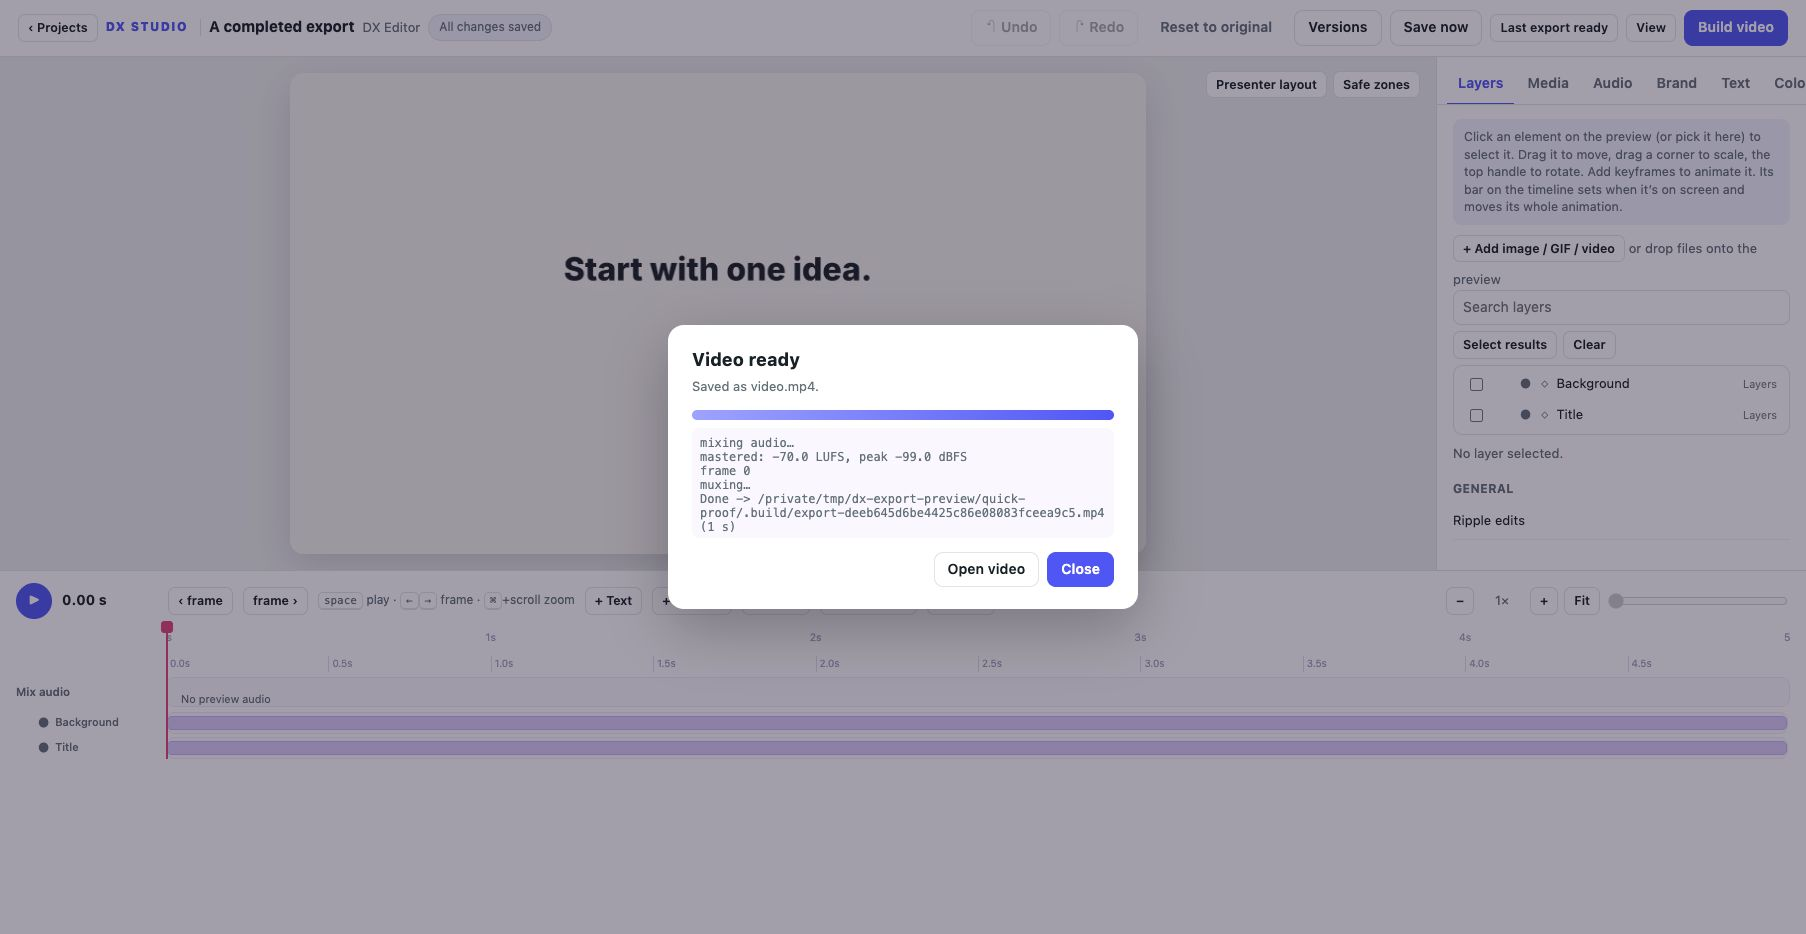
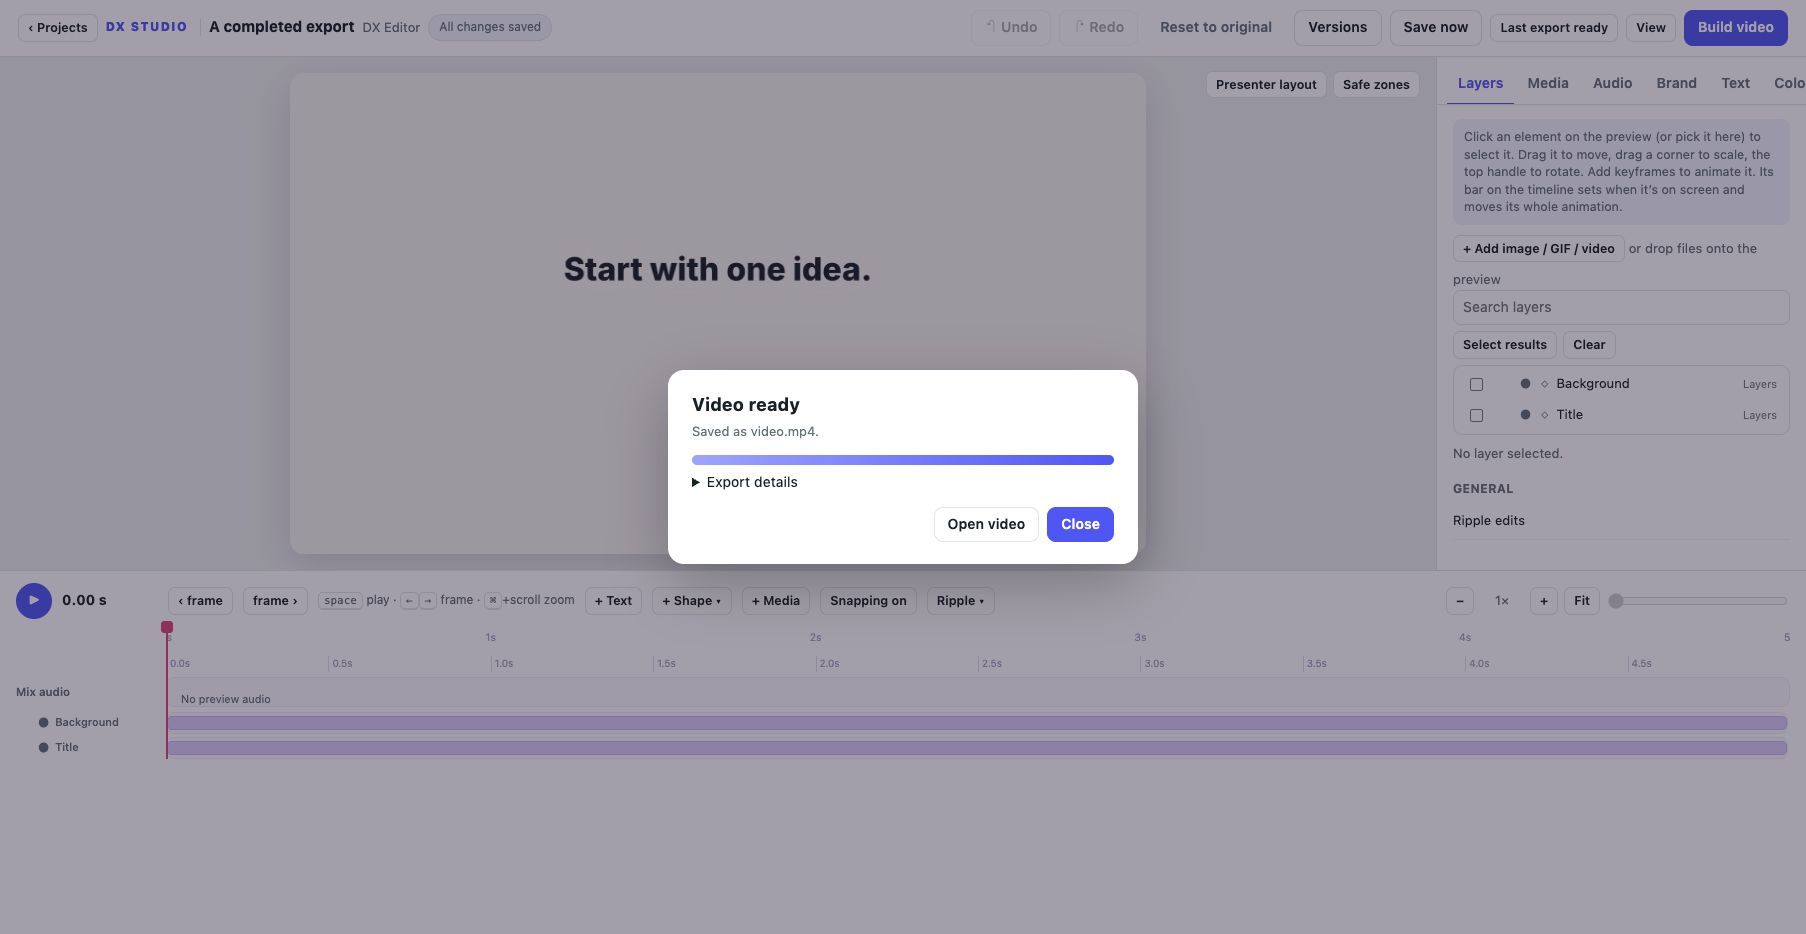
Preserve AI-to-editor handoffs and no-narration exports (#9)
* Add project home and bulk layer editing tools

* Add media library, relinking and export file checks

* Add preview waveform and listening workspace

* Add caption interchange and phrase revision tools

* Keep shortened export fixtures within caption bounds

* Add reusable palettes and brand style presets

* Add adjustable workspace layouts and preview quality

* Add cancellable exports and preserve completed videos

* Improve assistant handoffs and identify development builds

* Keep no-narration exports compatible with isolated build jobs

---------

Changed region(s): [[0.3721, 0.3415, 0.6512, 0.652]]

diff --git a/scripts/novoice.py b/scripts/novoice.py
@@ -1,37 +1,59 @@
-"""Render a music + sound-effects-only version of a built project (same master chain, voice muted).
+"""Make a separate no-narration MP4 from a freshly completed project export.
 
-    python3 scripts/novoice.py <project> <out.mp4>
+    python scripts/novoice.py <project> <out.mp4> [--mute-footage]
 
-Run from the work folder that contains dx_studio/, after `python3 -m dx_studio build <project>`
-(it reuses .build/video.mp4 and the build's mix). Deliver it next to the master so the user can record their own voice.
+Run immediately after building the same saved settings. Footage audio stays unless
+--mute-footage is selected. No shared export intermediates are required.
 """
-import os, subprocess, sys
-sys.path.insert(0, os.getcwd())
-from dx_studio import cli, audio
+import argparse
+import os
+from pathlib import Path
+import subprocess
+import sys
+import tempfile
+sys.path.insert(0,str(Path(__file__).resolve().parents[1]))
+from dx_studio import cli,audio
+
+
+def make_novoice(project,out,mute_footage=False):
+    pr=cli._project(project);source=Path(pr.output).resolve();destination=Path(out).resolve()
+    if not source.is_file():raise ValueError('Build the project first, using the same saved settings.')
+    if destination==source:raise ValueError('Use a separate output path so the voiced master is kept.')
+    sources={Path(pr.media.path(item)).resolve() for item in pr.values.get('__media',[]) if item.get('file')}
+    if destination in sources:raise ValueError('Do not overwrite a source asset with the no-narration export.')
+    if destination.suffix.lower()!='.mp4':raise ValueError('Export to an .mp4 file')
+    destination.parent.mkdir(parents=True,exist_ok=True)
+    mx=pr.cfg.get('mix',{});target,peak=mx.get('loudness',-14.0),mx.get('peak',-1.2)
+    with tempfile.TemporaryDirectory(prefix='.dx-novoice-',dir=destination.parent) as work:
+        work=Path(work)
+        def chain(raw,dst,gain,limit):
+            subprocess.run(['ffmpeg','-hide_banner','-loglevel','error','-y','-i',str(raw),'-af',
+                            f'acompressor=threshold=-24dB:ratio=3:attack=6:release=120:makeup=4dB,volume={gain:.2f}dB,'
+                            f'alimiter=limit={10**(limit/20):.4f}:attack=2:release=60:level=false',
+                            '-ar',str(audio.SR),'-c:a','pcm_s24le',str(dst)],check=True)
+            return audio._lufs(dst)
+        full=audio.build_mix(pr,str(work/'full.wav'));gain,limit=8.5,peak-.55
+        for _ in range(6):
+            loudness,actual_peak=chain(full,work/'full-master.wav',gain,limit)
+            if abs(loudness-target)<.25 and actual_peak<=peak+.05:break
+            if actual_peak>peak+.05:limit-=(actual_peak-peak)+.1
+            if abs(loudness-target)>=.25:gain+=(target-loudness)*1.05
+        for line in pr.cfg.get('voice',[]):line['gain']=0.0
+        if mute_footage:
+            for item in pr.values.get('__media',[]):
+                if item.get('kind')=='video':item['muted']=True
+        raw=audio.build_mix(pr,str(work/'no-narration.wav'));master=work/'master.wav';chain(raw,master,gain,limit)
+        complete=work/'complete.mp4'
+        subprocess.run(['ffmpeg','-hide_banner','-loglevel','error','-y','-i',str(source),'-i',str(master),
+                        '-map','0:v:0','-map','1:a:0','-c:v','copy','-c:a','aac','-b:a','256k','-ar','48000',
+                        '-t',str(pr.duration),'-movflags','+faststart',str(complete)],check=True)
+        os.replace(complete,destination)
+    print('wrote',destination)
+
 
 def main():
-    if len(sys.argv) < 3: sys.exit(__doc__)
-    pr = cli._project(sys.argv[1]); out = sys.argv[2]; b = os.path.join(pr.path, '.build'); SR = audio.SR
-    if not os.path.exists(os.path.join(b, 'video.mp4')): sys.exit('build the project first (python3 -m dx_studio build <project>)')
-    mx = pr.cfg.get('mix', {}); target, peak = mx.get('loudness', -14.0), mx.get('peak', -1.2)
-    def chain(raw, dst, gain, lim_db):
-        subprocess.run(['ffmpeg', '-hide_banner', '-loglevel', 'error', '-y', '-i', raw, '-af',
-                        f'acompressor=threshold=-24dB:ratio=3:attack=6:release=120:makeup=4dB,volume={gain:.2f}dB,'
-                        f'alimiter=limit={10**(lim_db/20):.4f}:attack=2:release=60:level=false', '-ar', str(SR), '-c:a', 'pcm_s24le', dst], check=True)
-        return audio._lufs(dst)
-    # find the gain the full mix needed, then apply the same chain to the voiceless mix (music/sfx keep their level)
-    tmp = os.path.join(b, 'tmp_full.wav'); gain, lim = 8.5, peak - 0.55
-    for _ in range(6):
-        i, pk = chain(os.path.join(b, 'mix_raw.wav'), tmp, gain, lim)
-        if abs(i - target) < 0.25 and pk <= peak + 0.05: break
-        if pk > peak + 0.05: lim -= (pk - peak) + 0.1
-        if abs(i - target) >= 0.25: gain += (target - i)*1.05
-    for line in pr.cfg.get('voice', []): line['gain'] = 0.0
-    nv_raw = os.path.join(b, 'mix_novoice_raw.wav'); audio.build_mix(pr, nv_raw)
-    nv = os.path.join(b, 'master_novoice.wav'); chain(nv_raw, nv, gain, lim)
-    subprocess.run(['ffmpeg', '-hide_banner', '-loglevel', 'error', '-y', '-i', os.path.join(b, 'video.mp4'), '-i', nv, '-map', '0:v', '-map', '1:a',
-                    '-c:v', 'copy', '-c:a', 'aac', '-b:a', '256k', '-ar', '48000', '-t', str(pr.duration), '-movflags', '+faststart', out], check=True)
-    os.remove(tmp); print('wrote', out)
+    parser=argparse.ArgumentParser(description=__doc__);parser.add_argument('project');parser.add_argument('output');parser.add_argument('--mute-footage',action='store_true');args=parser.parse_args()
+    try:make_novoice(args.project,args.output,args.mute_footage)
+    except (ValueError,OSError,RuntimeError,subprocess.SubprocessError) as error:parser.exit(1,f'Error: {error}\n')
 
-if __name__ == '__main__':
-    main()
+if __name__=='__main__':main()

diff --git a/scripts/package_release.py b/scripts/package_release.py
@@ -1,5 +1,6 @@
 """Create source and agent-skill zips from the public source tree only."""
 import argparse
+import ast
 import hashlib
 from pathlib import Path
 from zipfile import ZipFile, ZIP_DEFLATED
@@ -7,15 +8,18 @@ from zipfile import ZipFile, ZIP_DEFLATED
 ROOT=Path(__file__).resolve().parents[1]
 SKIP={'.git','.venv','__pycache__','.pytest_cache','.build','stills','dist','build','outputs','projects'}
 def main():
-    ap=argparse.ArgumentParser();ap.add_argument('--output',default='../release-artifacts');a=ap.parse_args()
-    out=Path(a.output).resolve()
+    tree=ast.parse((ROOT/'dx_studio/__init__.py').read_text())
+    version=next(ast.literal_eval(node.value) for node in tree.body if isinstance(node,ast.Assign) and any(isinstance(target,ast.Name) and target.id=='__version__' for target in node.targets))
+    ap=argparse.ArgumentParser();ap.add_argument('--output');a=ap.parse_args()
+    out=Path(a.output).resolve() if a.output else ROOT.parent/'release-artifacts'/version
     if out==ROOT or ROOT in out.parents:ap.error('Write release artifacts outside the repository')
     out.mkdir(parents=True,exist_ok=True)
     files=[p for p in sorted(ROOT.rglob('*')) if p.is_file() and not p.is_symlink()
            and not any(x in SKIP or x.endswith('.egg-info') for x in p.relative_to(ROOT).parts)
            and p.name!='.DS_Store' and not p.name.startswith('.env')]
-    source=out/'dx-studio-0.1.0-source.zip'
+    source=out/f'dx-studio-{version}-source.zip'
     skill=out/'dx-studio-video.zip'
+    if any(path.exists() for path in [source,skill,out/'SHA256SUMS']):ap.error('Choose an empty output directory; existing release artifacts are never overwritten')
     for archive,prefix in [(source,'dx-studio'),(skill,'dx-studio-video')]:
         with ZipFile(archive,'w',ZIP_DEFLATED) as z:
             for p in files:z.write(p,str(Path(prefix)/p.relative_to(ROOT)))

diff --git a/dx_studio/cli.py b/dx_studio/cli.py
@@ -104,7 +104,8 @@ def cmd_sounds():
 def main(argv=None):
     import argparse
     ap=argparse.ArgumentParser(prog='dx-studio', description='DX Studio: explainer videos that stay editable.')
-    ap.add_argument('--version',action='version',version='DX Studio 0.1.0')
+    from . import __version__
+    ap.add_argument('--version',action='version',version='DX Studio '+__version__)
     sub=ap.add_subparsers(dest='command',required=True)
     sub.add_parser('doctor',help='Check local dependencies')
     sub.add_parser('sounds',help='List built-in sound effects')

diff --git a/dx_studio/__init__.py b/dx_studio/__init__.py
@@ -1,6 +1,6 @@
 """DX Studio: author editable motion graphics. Public scene API loads lazily."""
 from importlib import import_module
-__version__ = "0.1.0"
+__version__ = "0.5.0.dev0"
 _EXPORTS = {
     **{k:'core' for k in ['PI','WHITE','BLACK','clamp','eo','eio','ei','lin','P','lerp','mixc','window','back_ease','hexc','hex_of']},
     **{k:'text' for k in ['FONTS','shape','tw','text','ktext']},

diff --git a/reference/EDITOR_HANDOFF.md b/reference/EDITOR_HANDOFF.md
@@ -1,0 +1,82 @@
+# Revise and hand off an edited project
+
+Read this when returning to a project that has been opened in DX Editor, or when
+preparing the editable handoff. Keep the creator's changes usable after your work.
+
+## Start from the saved project
+
+Read project.json, scene.py and settings.json before revising an existing cut.
+Load the installed engine's Project to inspect effective values and layer IDs;
+settings contains differences from scene defaults, not necessarily the whole state.
+Keep the existing environment unless the task needs an engine upgrade.
+
+Layer IDs are stable identities. Display labels may have been renamed in the
+editor; do not generate new IDs just because a label changed. Keep declared
+parameter keys and media IDs when the element's role remains the same. A broad
+source rewrite needs a recoverable source copy or the project's existing version
+control: named editor versions contain settings, not Python or source assets.
+
+Current development builds add saved `__layers[id].label` and `locked` fields.
+Locks guard editor gestures; Python edits and global parameters can still affect
+locked layers. Treat locks and saved overrides as evidence of manual intent when
+revising. Preserve them where compatible with the requested change. Follow an
+explicit user request to change them; otherwise explain a necessary conflict and
+continue work that does not depend on resolving it.
+
+## Keep layout and timing consistent
+
+Use the active `project.layout` rectangles, not the original default presenter
+reservation. User transforms and imported media can cross these rectangles, so
+inspect the final composition after applying saved settings.
+
+A parent layer's start offset already shifts its children's rendering clock.
+Do not add the same offset to every child. Stored captions and cue times use
+scene time; the watched output can differ after ripple cuts and holds. Use the
+engine's time mapping when converting between them.
+
+Source changes may alter selection boxes, defaults or built-in motion. Inspect
+affected layers with saved transforms at the revised beats, not just a fresh
+render using default settings. A settings-only version cannot undo a changed
+scene implementation.
+
+## Retain the right files
+
+When replacing an imported source, keep its layer ID, box, timing, transform,
+keyframes and deliberate audio controls. DX Editor's Media tools copy replacement
+files into the project. Keep old sources needed by saved versions, even if the
+current cut no longer uses them. Do not clean the assets folder by guessing what
+looks unused. Portable bundles include source assets and saved settings.
+
+Newer editors provide palette/size presets, layer solo, audition ranges and view
+preferences. Solo and audition are preview tools; they do not define a partial or
+muted export. Exit solo and inspect the complete video before delivery. Brand
+presets match public parameter keys/types, so custom scenes may apply only a subset.
+
+## Deliver captions for the actual edit
+
+Use the installed CLI help to check for `captions` export support. When available:
+
+```sh
+python -m dx_studio captions ./projects/my-video --format srt --output ./outputs/my-video.srt
+python -m dx_studio captions ./projects/my-video --format vtt --output ./outputs/my-video.vtt
+```
+
+These sidecars reflect saved editable captions and output-time cuts/holds. A
+sidecar made directly from the original captions.json may disagree with the
+finished edit. On older engines, deliver sidecars only after verifying their
+output timing; do not imply that new editor commands exist in the v0.1 release.
+Splitting a phrase proportionally is not word-level speech alignment.
+
+## Leave a useful handoff
+
+Include brief project notes with the actual format, duration, presenter reservation,
+source/asset rights, narration files and the controls most likely to need revision.
+Name the important layers and any deliberate overlaps or deviations. Give the
+working open/build/pack commands for the supplied engine. Link to the relevant
+editor guide instead of listing every possible control.
+
+Verify that the MP4 is complete and matches the saved settings being delivered.
+Current export jobs capture settings at launch; later saved edits need a new
+export. Distinguish a browser preview from a completed render, and settings
+versions from source backups. Preserve the existing scope of the user's task;
+creating a project handoff does not authorise publishing the video.

diff --git a/SKILL.md b/SKILL.md
@@ -26,6 +26,7 @@ Read [PROJECT_FORMAT](reference/PROJECT_FORMAT.md) before writing a scene, and c
 | Product footage and talking-head layouts | [FOOTAGE_SHORTS](reference/FOOTAGE_SHORTS.md) |
 | Teaching video with several chapters | [TEACHING_LONGFORM](reference/TEACHING_LONGFORM.md) |
 | Landscape product walkthrough | [LONGFORM_16x9](reference/LONGFORM_16x9.md) |
+| Returning to manual edits or preparing an editor handoff | [EDITOR_HANDOFF](reference/EDITOR_HANDOFF.md) |
 | Optional Figma UI kit | [FIGMA_TUTORIALS](reference/FIGMA_TUTORIALS.md) |
 
 Templates live in `dx_studio/templates/`. The explainer is a complete 16-second,
@@ -83,7 +84,8 @@ when needed. They are examples, not a requirement for a particular topic or styl
    python -m dx_studio pack ./projects/my-video --output ./outputs/my-video-project.zip
    ```
    Deliver the MP4, portable project zip, voiceover sheet (text, timing, sources), and
-   no-voice master when useful. Add an SRT for optional captions on long videos. Confirm
+   no-voice master when useful. Read [EDITOR_HANDOFF](reference/EDITOR_HANDOFF.md) when
+   revising saved edits or delivering sidecar captions for the final edited timeline. Confirm
    output dimensions, duration, audio and completion before claiming success. Never
    claim a render or visual inspection that did not happen. `pack` preserves saved edits.
    Explain: extract the bundle, install its engine, run `python -m dx_studio edit project`.

diff --git a/CHANGELOG.md b/CHANGELOG.md
@@ -1,6 +1,6 @@
 # Changelog
 
-## Unreleased — toward 0.5.0
+## 0.5.0.dev0 — unreleased development toward 0.5.0
 
 - Autosave editable settings with explicit save/failure status and browser draft recovery.
 - Named setting versions, bounded automatic backups and recoverable restore/reset actions.
@@ -35,6 +35,11 @@
 - Cancellable export jobs with page-reload progress recovery, settings snapshots and stale-job cancellation protection.
 - Completed MP4s survive failed/cancelled jobs; successful exports publish atomically from isolated intermediates.
 - Concurrent media decodes use locked, completed caches; output paths cannot overwrite referenced sources.
+
+- Assistant handoff guidance preserves manual edits, stable identities, media needed by versions and output-timed sidecars.
+- Development package/CLI versions are distinct from v0.1; release packaging uses versioned directories and refuses to overwrite existing artifacts.
+
+- No-narration exports reuse completed MP4s with isolated temporary audio; an optional flag also mutes footage audio.
 
 ## 0.1.0 — 2026-10-17
 

diff --git a/docs/EXPORTS.md b/docs/EXPORTS.md
@@ -43,6 +43,18 @@ dx-studio build projects/my-video --output exports/review.mp4
 Custom output paths must stay inside the project, use `.mp4`, and must not replace
 a referenced media/audio source. Parent folders are created when needed. Advanced
 workflows can pass `--settings` with a settings snapshot inside the project.
+For a separate no-narration version after building the same saved settings:
+
+```sh
+python scripts/novoice.py projects/my-video outputs/no-voice.mp4
+# Also silence imported footage when needed:
+python scripts/novoice.py projects/my-video outputs/no-voice.mp4 --mute-footage
+```
+
+The helper reuses the completed MP4's video stream and builds its own temporary
+audio. It preserves the voiced master and needs no shared build intermediates.
+Footage audio is retained unless explicitly muted with the option above.
+
 Output profiles, range exports and render queues remain planned.
 
 ![Cancelled export keeps the previous completed video](images/export-jobs.png)

diff --git a/reference/PROJECT_FORMAT.md b/reference/PROJECT_FORMAT.md
@@ -130,6 +130,11 @@ def draw(c, t, p):
 
 Every layer automatically gets, in `settings.json` under `__layers`: start/end, visible, x/y offset, scale, rotation, opacity, keyframes (`[{t, x, y, scale, rotation, opacity, ease}]`, `t` relative to the layer's start; eases `ease`, `ease-in`, `ease-out`, `linear`, `back`, `hold`), and entrance/exit presets (`fade`, `pop`, `zoom`, `slide-up/down/left/right`) with durations.
 
+Current development editors also save optional display `label` and `locked` fields.
+Labels do not change stable IDs. Locks cover direct layer editing, including descendants
+of a locked parent; global parameters and scene source still affect those layers.
+Read [EDITOR_HANDOFF](EDITOR_HANDOFF.md) before revising a manually edited project.
+
 A sound cue can name its layer, `{"sound": "stamp", "at": p.T_ST1, "layer": "card_b"}`, so the sound moves when the layer is moved and goes silent when it's hidden.
 
 ## Captions and media are editable automatically

diff --git a/README.md b/README.md
@@ -23,7 +23,7 @@ adjust the timing in DX Editor, then rebuild from the same source.
 </tr>
 </table>
 
-Development toward **v0.5** adds a [project home and bulk layer tools](docs/WORKSPACE.md):
+The current source is **0.5.0.dev0**, a development build toward v0.5. It adds a [project home and bulk layer tools](docs/WORKSPACE.md):
 create or reopen projects, search and rename layers, select several at once, lock,
 solo, align and space them. A [media library](docs/MEDIA.md) adds reusable imports,
 replacement, relinking and file checks before export. The [audio workspace](docs/AUDIO_WORKSPACE.md)
